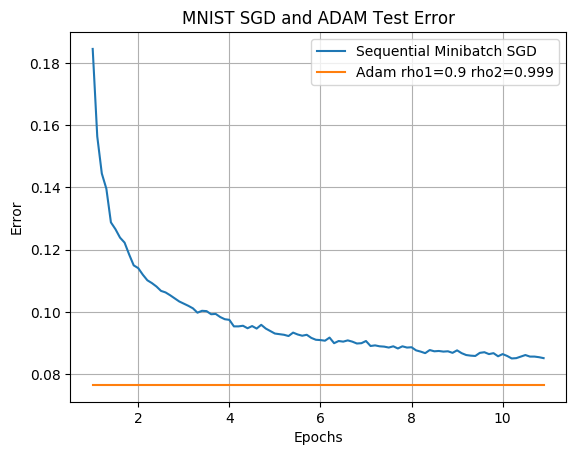
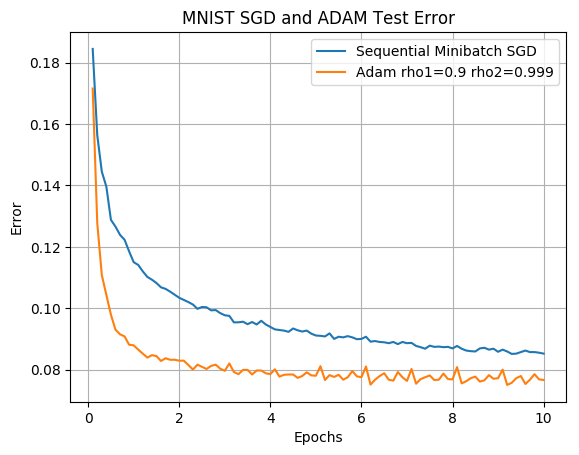
Fixed bug in ADAM + new plots

diff --git a/main.py b/main.py
@@ -221,7 +221,7 @@ def adam(Xs, Ys, gamma, W0, alpha, rho1, rho2, B, eps, num_epochs, monitor_perio
             s = rho1 * s + (1-rho1) * g
             r = rho2 * r + (1-rho2) * g**2
             sprime, rprime = s / (1-rho1**t), r / (1-rho2**t)
-            W0 -= alpha * sprime / np.sqrt(rprime + eps)
+            W0 = W0 - alpha * sprime / np.sqrt(rprime + eps)
             if (j+cur+1) % monitor_period == 0:
                 models.append(W0)
         print("epoch", i)
@@ -248,7 +248,7 @@ if __name__ == "__main__":
                         help="To run accuracy section of the corresponding part of the assignment")
     parser.add_argument("--time", action='store_true',
                         help="To time corresponding part of the assignment")
-    parser.add_argument("--expl", action='store_true',
+    parser.add_argument("--explore", action='store_true',
                         help="To run the exploration part of the assignment")
 
     args = parser.parse_args()
@@ -267,6 +267,17 @@ if __name__ == "__main__":
     def get_loss(Xs, Ys, models):
         return [multinomial_logreg_loss(Xs, Ys, gamma, W) for W in models]
 
+    def get_model_errors(models, loss=False):
+        model_error_tr = [get_error(Xs_tr, Ys_tr, model) for model in models]
+        print("Errors for training set done")
+        model_error_te = [get_error(Xs_te, Ys_te, model) for model in models]
+        print("Errors for test set done")
+        if loss:
+            model_training_loss = [get_loss(Xs_te, Ys_te, model) for model in models]
+            print("Loss for training set done")
+            return [model_error_tr, model_error_te, model_training_loss]
+        return [model_error_tr, model_error_te]
+
 
     # Other functions
 
@@ -281,7 +292,7 @@ if __name__ == "__main__":
         for name, error in zip(names, model_error):
             pyplot.plot(t, error, label=name)
         pyplot.gca().legend()
-        pyplot.savefig(title + measure + '.png', bbox_inches='tight')
+        pyplot.savefig((title + measure + '.png').replace(" ",""), bbox_inches='tight')
 
 
     ''' Plot the model runtimes [times] of the models whose respective names are given by [names].
@@ -298,6 +309,10 @@ if __name__ == "__main__":
             pyplot.text(i-.25, v * (1.015), " " + str(round(v,2)) +' s', color='black', va='center', fontweight='bold')
         pyplot.savefig(filename, bbox_inches='tight')
 
+    def plot_metrics(t, metrics, names, titles, measures):
+        for metric, name, title, measure in zip(metrics, names, titles, measures):
+            plot_error(t, metric, name, title, measure=measure)
+
     ''' Time the algorightms in [algos], whose respective names are given by [names],
         by averaging the runtime of the algorithm over 5 runs.
         PreC :The algorithms must be lambdas that take no inputs '''
@@ -313,6 +328,7 @@ if __name__ == "__main__":
             print(name,time/5,"seconds")
         return times
 
+
 if args.part1:
     print("Part 1")
     alpha, num_epochs = 1.0, 100
@@ -321,6 +337,10 @@ if args.part1:
     gd = lambda _ : gradient_descent(Xs_tr, Ys_tr, gamma, W0, alpha, num_epochs, monitor_period)
 
     momentum = lambda beta : gd_nesterov(Xs_tr, Ys_tr, gamma, W0, alpha, beta, num_epochs, monitor_period)
+
+    gd_alpha = lambda alpha : gradient_descent(Xs_tr, Ys_tr, gamma, W0, alpha, num_epochs, monitor_period)
+
+    momentum_alpha = lambda alpha, beta: gd_nesterov(Xs_tr, Ys_tr, gamma, W0, alpha, beta, num_epochs, monitor_period)
 
     if args.accu:
         algos = [gd, momentum, momentum]
@@ -362,6 +382,43 @@ if args.part1:
         # plot runtime for training as a bar graph
         plot_runtimes(x_positions, times, names, filename='train_time_part1.png')
 
+    if args.explore:
+        alpha1, alpha2 = 0.5, 0.1
+        beta1, beta2 = .85, .95
+
+        algos = [lambda : gd_alpha(alpha1),
+                 lambda : gd_alpha(alpha2),
+                 lambda : momentum_alpha(alpha1, beta1),
+                 lambda : momentum_alpha(alpha2, beta2)
+                 ]
+
+        names = [
+            "GD alpha=" + str(round(alpha1,3)),
+            "GD alpha=" + str(round(alpha2, 3)),
+            "Nesterov's alpha="+str(round(alpha1,3))+" beta="+str(round(beta1,3)),
+            "Nesterov's alpha="+str(round(alpha2,3))+" beta="+str(round(beta2,3)),
+            ]
+        models = []
+
+        for algo, name in zip(algos, names):
+            models.append(algo())
+            print(name, "done")
+
+        # Get model errors
+        metrics = get_model_errors(models, loss=True)
+        measures = ["Error", "Error", "Loss"]
+        titles = [
+            "GD and Nesterov's Momentum Training Exploration",
+            "GD and Nesterov's Momentum Test Exploration ",
+            "GD and Nesterov's Momentum Training Exploration"
+        ]
+
+        # Get the range of times
+        t = np.arange(1, num_epochs + 1)
+        # Plot metrics
+        plot_metrics(t, metrics, names, titles, measures)
+
+
 
 
 if args.part2:
@@ -371,6 +428,8 @@ if args.part2:
 
     sgd_mini = lambda _ : sgd_minibatch_sequential_scan(Xs_tr, Ys_tr, gamma, W0, alpha, B, num_epochs, monitor_period)
     sgd_momentum = lambda beta : sgd_mss_with_momentum(Xs_tr, Ys_tr, gamma, W0, alpha, beta, B, num_epochs, monitor_period)
+    sgd_mini_alpha = lambda alpha : sgd_minibatch_sequential_scan(Xs_tr, Ys_tr, gamma, W0, alpha, B, num_epochs, monitor_period)
+    sgd_momentum_alpha = lambda alpha, beta : sgd_mss_with_momentum(Xs_tr, Ys_tr, gamma, W0, alpha, beta, B, num_epochs, monitor_period)
 
     if args.accu:
         algos = [sgd_mini, sgd_momentum, sgd_momentum]
@@ -394,7 +453,7 @@ if args.part2:
         print("Loss for training set done")
 
         # Get the range of times
-        t = np.arange(1, num_epochs + 1, .1)
+        t = np.arange(.1, num_epochs + .1, .1)
         # plot training error as a function of epochs
         plot_error(t, model_error_tr, names, "SGD and Momentum Training")
         # plot test error as a function of epochs
@@ -413,6 +472,45 @@ if args.part2:
         # plot runtime for training as a bar graph
         plot_runtimes(x_positions, times, names, filename='train_time_part2.png')
 
+    if args.explore:
+        alpha1, alpha2, B = 0.25, 0.3, 600
+        beta1, beta2 = 0.85, 0.95
+        num_epochs, monitor_period = 10, 10
+
+
+        algos = [lambda : sgd_mini_alpha(alpha1),
+                 lambda : sgd_mini_alpha(alpha2),
+                 lambda : sgd_momentum_alpha(alpha1, beta1),
+                 lambda : sgd_momentum_alpha(alpha2, beta2)
+                 ]
+        names = ["Sequential Minibatch SGD alpha=" + str(round(alpha1, 3)),
+                 "Sequential Minibatch SGD alpha=" + str(round(alpha2, 3)),
+                 "Minibatch SGD + Momentum alpha=" + str(round(alpha1, 3)) + " beta=" + str(round(beta1, 3)),
+                 "Minibatch SGD + Momentum alpha=" + str(round(alpha2, 3)) + " beta=" + str(round(beta2, 3)),
+                 ]
+        models = []
+
+        for algo, name in zip(algos, names):
+            models.append(algo())
+            print(name, "done")
+
+        # Get model errors
+        model_error_tr = [get_error(Xs_tr, Ys_tr, model) for model in models]
+        print("Errors for training set done")
+        model_error_te = [get_error(Xs_te, Ys_te, model) for model in models]
+        print("Errors for test set done")
+        model_training_loss = [get_loss(Xs_te, Ys_te, model) for model in models]
+        print("Loss for training set done")
+
+        # Get the range of times
+        t = np.arange(.1, num_epochs + .1, .1)
+        # plot training error as a function of epochs
+        plot_error(t, model_error_tr, names, "SGD and Momentum Training Exploration")
+        # plot test error as a function of epochs
+        plot_error(t, model_error_te, names, "SGD and Momentum Test Exploration")
+        # plot training loss as a function of epochs
+        plot_error(t, model_training_loss, names, "SGD and Momentum Training Exploration", measure='Loss')
+
 
 
 if args.part3:
@@ -420,11 +518,12 @@ if args.part3:
     alpha1, alpha2 = 0.2, 0.01
     B, monitor_period = 600, 10
     rho1, rho2 = 0.9, 0.999
-    eps, num_epochs = 1e-5, 10
+    eps, num_epochs = 0.00001, 10
 
     sgd_mini = lambda : sgd_minibatch_sequential_scan(Xs_tr, Ys_tr, gamma, W0, alpha1, B, num_epochs, monitor_period)
-
+    sgd_mini_alpha = lambda alpha : sgd_minibatch_sequential_scan(Xs_tr, Ys_tr, gamma, W0, alpha, B, num_epochs, monitor_period)
     adam_l = lambda : adam(Xs_tr, Ys_tr, gamma, W0, alpha2, rho1, rho2, B, eps, num_epochs, monitor_period)
+    adam_l_alpha = lambda alpha, rho1, rho2 : adam(Xs_tr, Ys_tr, gamma, W0, alpha, rho1, rho2, B, eps, num_epochs, monitor_period)
 
     if args.accu:
         algos = [sgd_mini, adam_l]
@@ -445,7 +544,7 @@ if args.part3:
         print("Loss for training set done")
 
         # Get the range of times
-        t = np.arange(1, num_epochs + 1, .1)
+        t = np.arange(.1, num_epochs+.1, .1)
         # plot training error as a function of epochs
         plot_error(t, model_error_tr, names, "SGD and ADAM Training")
         # plot test error as a function of epochs
@@ -464,6 +563,46 @@ if args.part3:
         # plot runtime for training as a bar graph
         plot_runtimes(x_positions, times, names, filename='train_time_part3.png')
 
+    if args.explore:
+        num_epochs = 10
+        alpha1, alpha2 = 0.01, 0.02
+        rho1, rho2 = 0.8, 0.88
+        rho1p, rho2p = 0.85, 0.93
+        alpha_sgd1, alpha_sgd2 = 0.25, 0.3
 
-if args.expl:
-    pass
+        algos = [lambda : sgd_mini_alpha(alpha_sgd1),
+                 lambda : sgd_mini_alpha(alpha_sgd2),
+                 lambda : adam_l_alpha(alpha1, rho1, rho2),
+                 lambda: adam_l_alpha(alpha1, rho1p, rho2p),
+                 lambda: adam_l_alpha(alpha2, rho1, rho2),
+                 lambda: adam_l_alpha(alpha2, rho1p, rho2p)
+                 ]
+        names = ["Sequential Minibatch SGD alpha=" + str(round(alpha_sgd1,3)),
+                 "Sequential Minibatch SGD alpha=" + str(round(alpha_sgd2, 3)),
+                 "Adam alpha=" +str(round(alpha1, 3)) + " rho1=" + str(round(rho1, 3)) + ' rho2=' + str(round(rho2, 3)),
+                 "Adam alpha=" + str(round(alpha1, 3)) + " rho1=" + str(round(rho1p, 3)) + ' rho2=' + str(round(rho2p, 3)),
+                 "Adam alpha=" + str(round(alpha2, 3)) + " rho1=" + str(round(rho1, 3)) + ' rho2=' + str(round(rho2, 3)),
+                 "Adam alpha=" + str(round(alpha2, 3)) + " rho1=" + str(round(rho1p, 3)) + ' rho2=' + str(round(rho2p, 3))
+                 ]
+        models = []
+
+        for algo, name in zip(algos, names):
+            models.append(algo())
+            print(name, "done")
+
+        # Get model errors
+        model_error_tr = [get_error(Xs_tr, Ys_tr, model) for model in models]
+        print("Errors for training set done")
+        model_error_te = [get_error(Xs_te, Ys_te, model) for model in models]
+        print("Errors for test set done")
+        model_training_loss = [get_loss(Xs_te, Ys_te, model) for model in models]
+        print("Loss for training set done")
+
+        # Get the range of times
+        t = np.arange(.1, num_epochs + .1, .1)
+        # plot training error as a function of epochs
+        plot_error(t, model_error_tr, names, "SGD and ADAM Training Exploration")
+        # plot test error as a function of epochs
+        plot_error(t, model_error_te, names, "SGD and ADAM Test Exploration")
+        # plot training loss as a function of epochs
+        plot_error(t, model_training_loss, names, "SGD and ADAM Training Exploration", measure='Loss')
